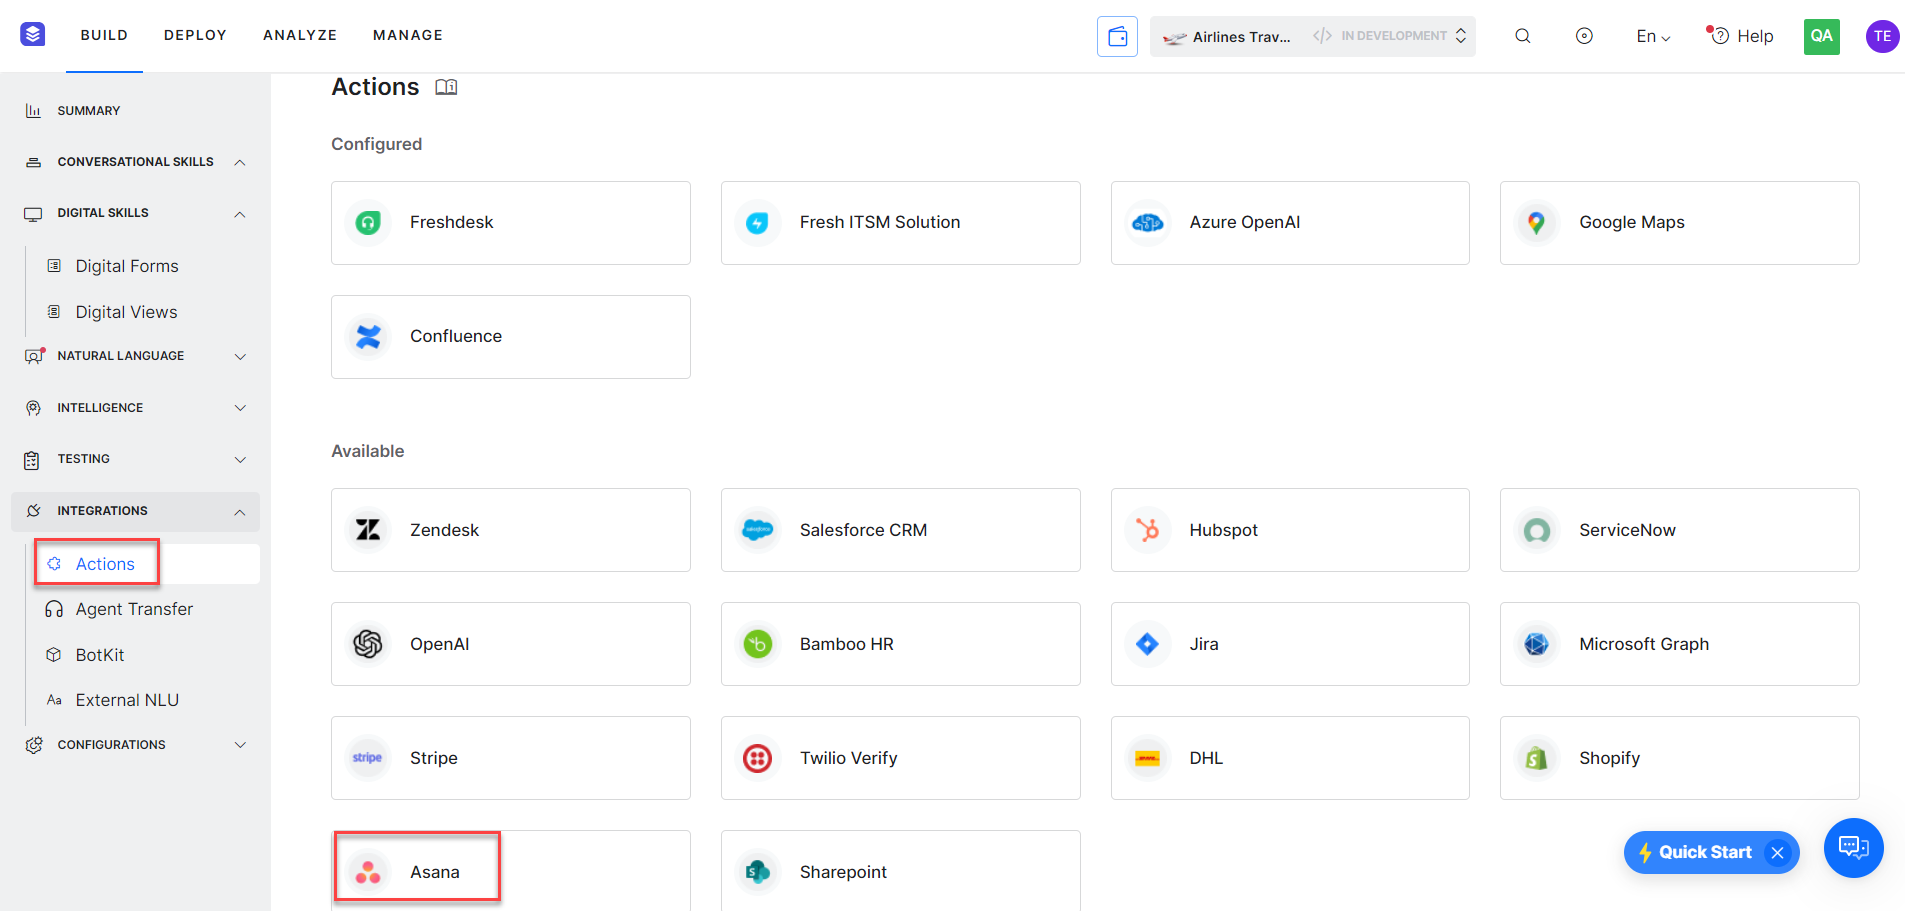
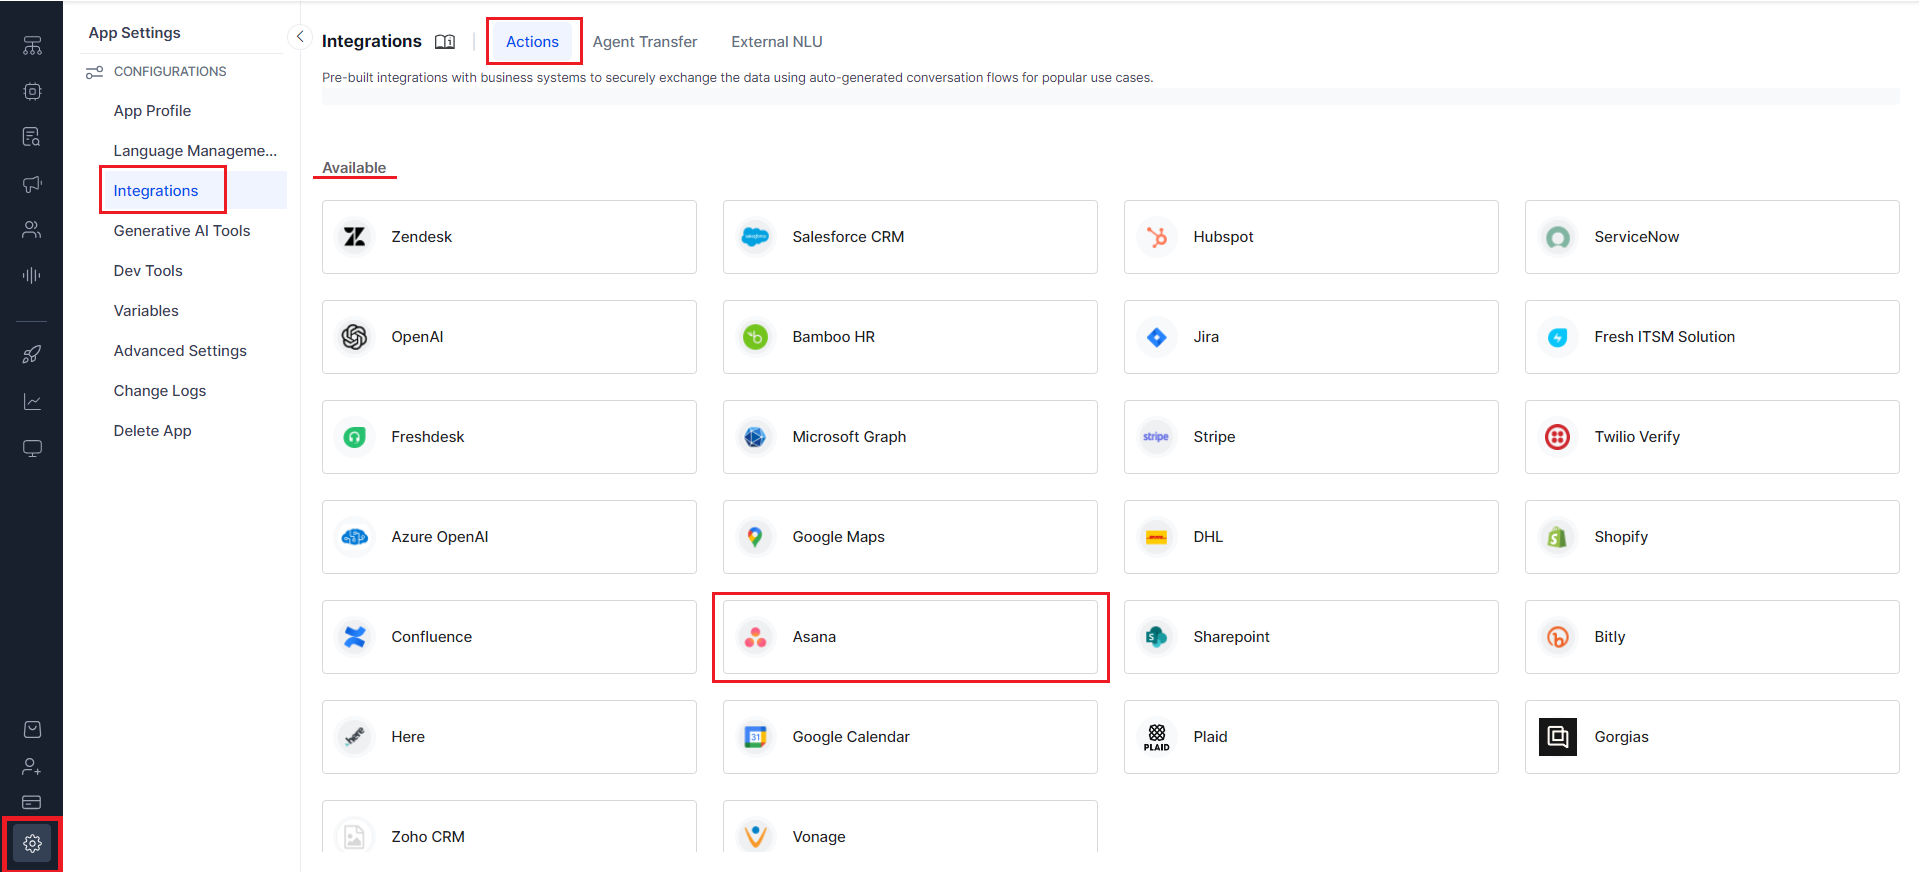
asana navigation correction

diff --git a/docs/xo/app-settings/integrations/actions/asana/using-the-asana-action-templates.md b/docs/xo/app-settings/integrations/actions/asana/using-the-asana-action-templates.md
@@ -1,18 +1,20 @@
 
 # Using the Asana Action Templates
 
-You can use the **Prebuilt Action Templates** from your Asana integration to auto-create dialog tasks and test them using the **Talk to Bot** option.
+You can use the **Prebuilt Action Templates** from your Asana integration to auto-create dialog tasks and test them using the **Test** option.
 
 Steps to create a dialog task using Asana action templates:
 
-1. Go to **Build > Conversation Skills > Dialog Tasks**.
+1. Go to **Automation > Dialogs**.
 2. Click **Create a Dialog Task**.  
 <img src="../images/asana-template-img1-create_dailog_task.png" alt="Create dialog task" title="Create dialog task" style="border: 1px solid gray;zoom:50%;"/>
 
 3. On the Dialog Task pop-up, under the **Integration**, select the **Asana** option to view the action templates.  
 <img src="../images/asana-action-img12.png" alt="Select Asana action template" title="Select Asana action template" style="border: 1px solid gray;zoom:50%;"/>  
  
-    **Note**: If you have not configured any integration for your virtual assistant, you will see the **Explore Integrations** option. Once you click this option, you will be redirected to the **Actions** page to configure an integration for your VA. For more information, see [Actions Overview](../../actions){:target="_blank"}.  
+    !!! Note
+    
+        If you have not configured any integration for your virtual assistant, you will see the **Explore Integrations** option. Once you click this option, you will be redirected to the **Actions** page to configure an integration for your VA. For more information, see [Actions Overview](../../actions){:target="_blank"}.  
     
     <img src="../images/asana-template-img3-create_dialog_new.png" alt="Explore integrations" title="Explore integrations" style="border: 1px solid gray;zoom:50%;"/>
 

diff --git a/docs/xo/app-settings/integrations/actions/asana/configuring-the-asana-action.md b/docs/xo/app-settings/integrations/actions/asana/configuring-the-asana-action.md
@@ -35,7 +35,7 @@ You can authorize the integration using your credentials. The developer authoriz
 
 Steps to authorize an Asana action using developer credentials:
 
-1. Go to **Build > Integrations > Actions**.
+1. Go to **App Settings > Integrations > Actions**.
 2. Select the **Asana** from the list of **Available** actions.  
 <img src="../images/asana-action-img1.png" alt="Select Asana" title="Select Asana" style="border: 1px solid gray;zoom:50%;"/>
 
@@ -62,7 +62,7 @@ You can authorize the integration at a user level with their login credentials. 
 
 Steps to authorize an Asana action at a user level:
 
-1. Go to **Build > Integrations > Actions** and select the **Asana** action.
+1. Go to **App Settings > Integrations > Actions** and select the **Asana** action.
 2. In the Configurations dialog, select the **Authorization** tab.
 3. Enter the following details:
     1. **Authorization Type** – Select the **Allow Users to Authorize the Integration** option, and then select the **Basic Auth** option.

diff --git a/docs/xo/app-settings/integrations/actions/actions.md b/docs/xo/app-settings/integrations/actions/actions.md
@@ -13,7 +13,7 @@ The Kore.ai XO Platform offers pre-built integrations with popular business appl
 2. Enable an integration to exchange data between two systems during the dialog task execution.
 3. Enable an integration and create the dialog tasks using the preconfigured templates supported by the integration.
 
-The **Actions** module is available under the **Build > Integrations** menu.
+The **Actions** module is available under the **App Settings > Integrations** menu.
 
 
 ## Actions Enablement
